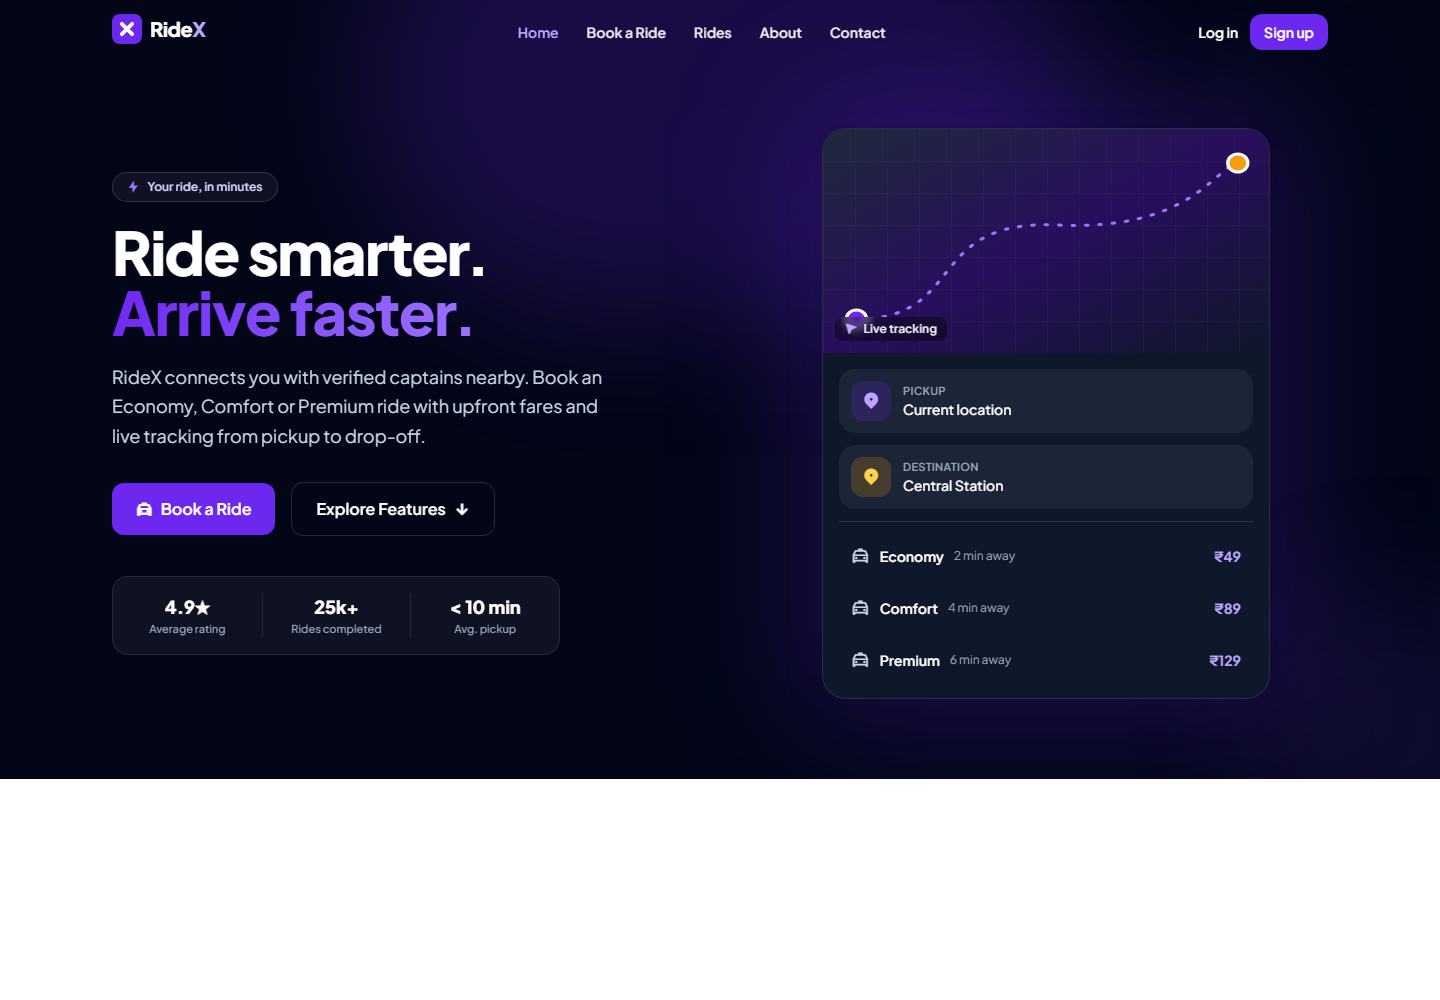
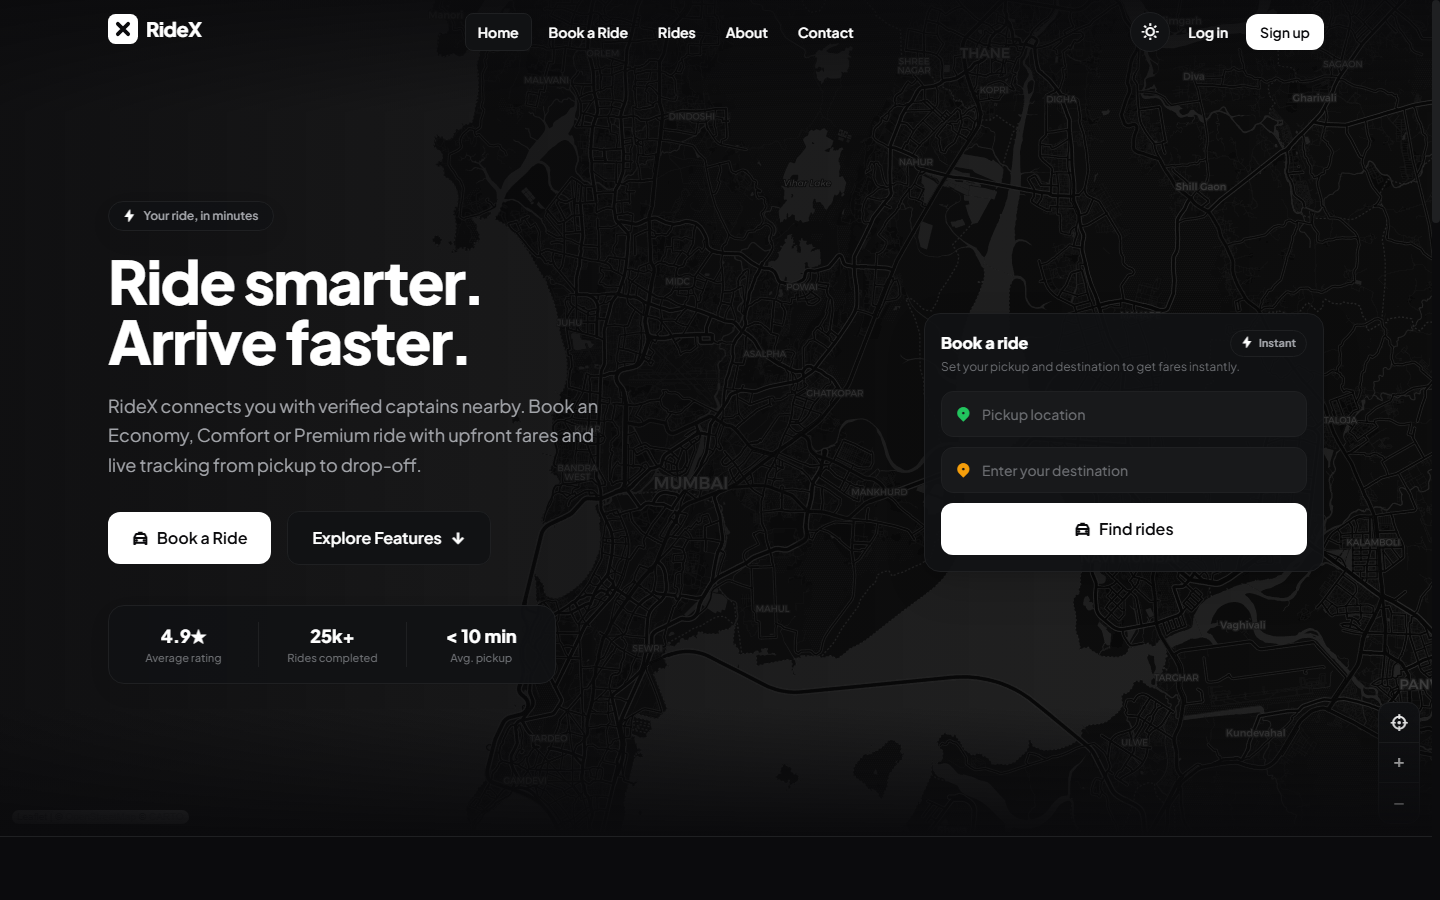
feat: India map auth pages + refreshed README screenshots
- Replace the grid/network background on login/signup brand panels with the
  same real Leaflet India map used on the landing hero — theme-aware tiles,
  subtle readability gradients, no map controls on auth pages
- HeroMap gains a showControls prop so decorative full-bleed uses (auth brand
  panel) render without zoom/re-center buttons; delete the now-unused
  NetworkArt grid component
- Re-capture all README screenshots in the current dark/light design and add
  light-theme variants for the landing hero and rider login

diff --git a/frontend/src/components/layout/AuthLayout.jsx b/frontend/src/components/layout/AuthLayout.jsx
@@ -1,18 +1,27 @@
 import { Link } from 'react-router-dom';
 import Logo from '../brand/Logo';
 import ThemeToggle from '../ui/ThemeToggle';
-import NetworkArt from '../ui/NetworkArt';
+import HeroMap from '../map/HeroMap';
 
 const AuthLayout = ({ title, subtitle, caption = 'Rider portal', children, footer }) => (
   <div className="flex min-h-screen bg-ui-canvas">
-    {/* Brand panel (desktop) */}
+    {/* Brand panel (desktop) — real India map background, same style as the landing hero */}
     <div className="relative hidden w-1/2 flex-col justify-between overflow-hidden border-r border-ui-line bg-ui-canvas p-12 lg:flex">
-      <NetworkArt />
-      <Link to="/" className="relative">
+      {/* Full-bleed map behind the branding */}
+      <div className="absolute inset-0 z-0">
+        <HeroMap showControls={false} />
+      </div>
+
+      {/* Readability overlays — subtle, map stays visible */}
+      <div className="pointer-events-none absolute inset-0 z-[1] bg-gradient-to-r from-ui-canvas/85 via-ui-canvas/50 to-transparent" />
+      <div className="pointer-events-none absolute inset-x-0 bottom-0 z-[1] h-40 bg-gradient-to-t from-ui-canvas/90 to-transparent" />
+      <div className="pointer-events-none absolute inset-x-0 top-0 z-[1] h-28 bg-gradient-to-b from-ui-canvas/80 to-transparent" />
+
+      <Link to="/" className="relative z-10">
         <Logo size={34} />
       </Link>
-      <div className="relative max-w-md">
-        <span className="inline-flex items-center gap-2 rounded-full border border-ui-line bg-ui-card px-3.5 py-1.5 text-xs font-semibold text-ui-muted">
+      <div className="relative z-10 max-w-md">
+        <span className="inline-flex items-center gap-2 rounded-full border border-ui-line bg-ui-card/90 px-3.5 py-1.5 text-xs font-semibold text-ui-muted shadow-card backdrop-blur-sm">
           <i className="ri-shield-star-line text-ui-faint" /> {caption}
         </span>
         <h2 className="mt-5 text-3xl font-extrabold leading-tight tracking-tight text-ui-ink">
@@ -22,7 +31,7 @@ const AuthLayout = ({ title, subtitle, caption = 'Rider portal', children, foote
           Upfront fares, verified captains and live tracking on every single ride.
         </p>
       </div>
-      <p className="relative text-xs text-ui-faint">
+      <p className="relative z-10 text-xs text-ui-faint">
         © {new Date().getFullYear()} RideX — an independent ride-booking application.
       </p>
     </div>

diff --git a/frontend/src/components/map/HeroMap.jsx b/frontend/src/components/map/HeroMap.jsx
@@ -26,9 +26,11 @@ const TILE_ATTR =
 /**
  * Real map that fills the hero background. Tiles are muted to blend with the
  * UI; the map stays behind all content. Shows a pulsing dot at the user's
- * location when geolocation is granted.
+ * location when geolocation is granted. Set `showControls={false}` for
+ * decorative full-bleed uses (e.g. the auth brand panel) where zoom/re-center
+ * buttons would be out of place.
  */
-const HeroMap = ({ center = DEFAULT_CENTER, zoom = DEFAULT_ZOOM }) => {
+const HeroMap = ({ center = DEFAULT_CENTER, zoom = DEFAULT_ZOOM, showControls = true, className = '' }) => {
   const { theme } = useTheme();
   const dark = theme === 'dark';
   const [userPos, setUserPos] = useState(null);
@@ -44,7 +46,7 @@ const HeroMap = ({ center = DEFAULT_CENTER, zoom = DEFAULT_ZOOM }) => {
     <MapContainer
       center={userPos || center}
       zoom={zoom}
-      className={`ridex-map h-full w-full ${dark ? 'map-tiles-dark' : 'map-tiles-light'}`}
+      className={`ridex-map h-full w-full ${dark ? 'map-tiles-dark' : 'map-tiles-light'} ${className}`}
       style={{ height: '100%', width: '100%' }}
       scrollWheelZoom={false}
       zoomControl={false}
@@ -53,7 +55,7 @@ const HeroMap = ({ center = DEFAULT_CENTER, zoom = DEFAULT_ZOOM }) => {
       <TileLayer url={tileUrl(dark)} attribution={TILE_ATTR} />
       <AttributionControl position="bottomleft" prefix="Leaflet" />
       {userPos && <Marker position={userPos} icon={liveDotIcon} />}
-      <MapControls target={userPos || center} zoom={zoom + 2} />
+      {showControls && <MapControls target={userPos || center} zoom={zoom + 2} />}
     </MapContainer>
   );
 };

diff --git a/README.md b/README.md
@@ -32,9 +32,12 @@ complete trips with OTP-verified starts.
 - **Google-style location search** — Places-style autocomplete with recent locations (last 5,
   clearable) stored in `localStorage`, and pickup/destination flows that update the map.
 - **Dark & light themes** — a monochrome, Base-style design system (charcoal `#0B0B0D` in dark,
-  off-white `#FAFAFA` in light) with muted, theme-styled map tiles and a persistent theme
+  off-white `#F7F7F5` in light) with muted, theme-styled map tiles and a persistent theme
   toggle. Preview any theme with `?theme=light` / `?theme=dark` in the URL. Muted tile
   filtering keeps the map from looking washed out in either theme.
+- **Consistent map identity** — the same real map treatment carries from the landing hero into
+  the auth pages (login/signup brand panels) and the booking screens, so the whole product
+  feels like one RideX experience in both themes.
 - **Responsive design** — mobile-first layout with a desktop app-style map/booking panel.
 - **Friendly error handling** — validated forms, inline errors, toast notifications and skeleton
   loading states everywhere.
@@ -165,13 +168,22 @@ real-time request → accept → OTP → complete flow.
 
 ## Screenshots
 
-| Landing page (desktop) | Landing page (mobile) |
-| ---------------------- | --------------------- |
-| ![Landing hero](screenshots/landing-hero.png) | ![Landing mobile](screenshots/landing-mobile.png) |
+**Landing page** — the hero sits on a real full-bleed map (dark and light themes):
 
-| Features & How it works | Rider login | Rider signup |
-| ----------------------- | ----------- | ------------ |
-| ![Landing sections](screenshots/landing-sections.png) | ![Login](screenshots/login.png) | ![Signup](screenshots/signup.png) |
+| Dark theme (desktop) | Light theme (desktop) | Mobile |
+| -------------------- | --------------------- | ------ |
+| ![Landing hero dark](screenshots/landing-hero.png) | ![Landing hero light](screenshots/landing-light.png) | ![Landing mobile](screenshots/landing-mobile.png) |
+
+| Features & How it works |
+| ----------------------- |
+| ![Landing sections](screenshots/landing-sections.png) |
+
+**Authentication** — login/signup carry the same India map background as the landing page,
+in both themes:
+
+| Rider login (dark) | Rider login (light) | Rider signup |
+| ----------------- | ------------------- | ------------ |
+| ![Login](screenshots/login.png) | ![Login light](screenshots/login-light.png) | ![Signup](screenshots/signup.png) |
 
 | Captain login | Captain signup |
 | ------------- | -------------- |
